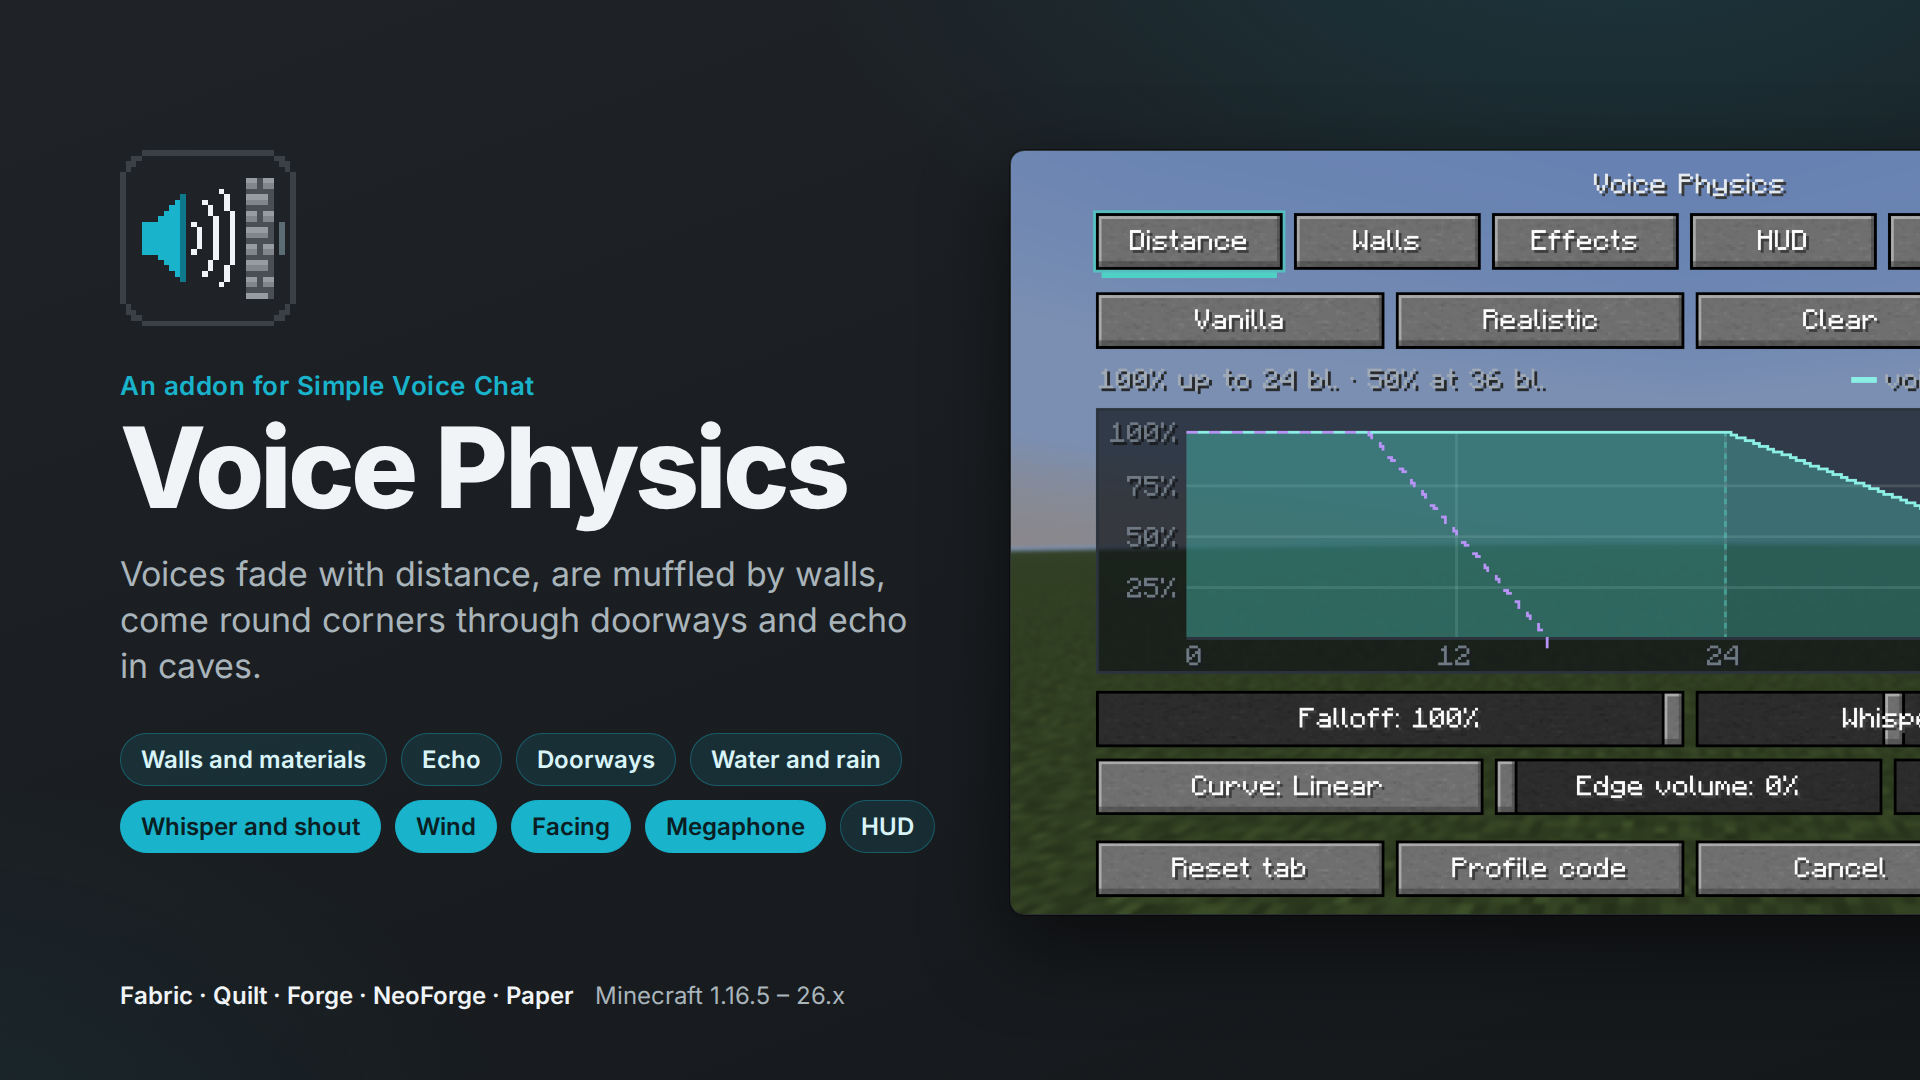
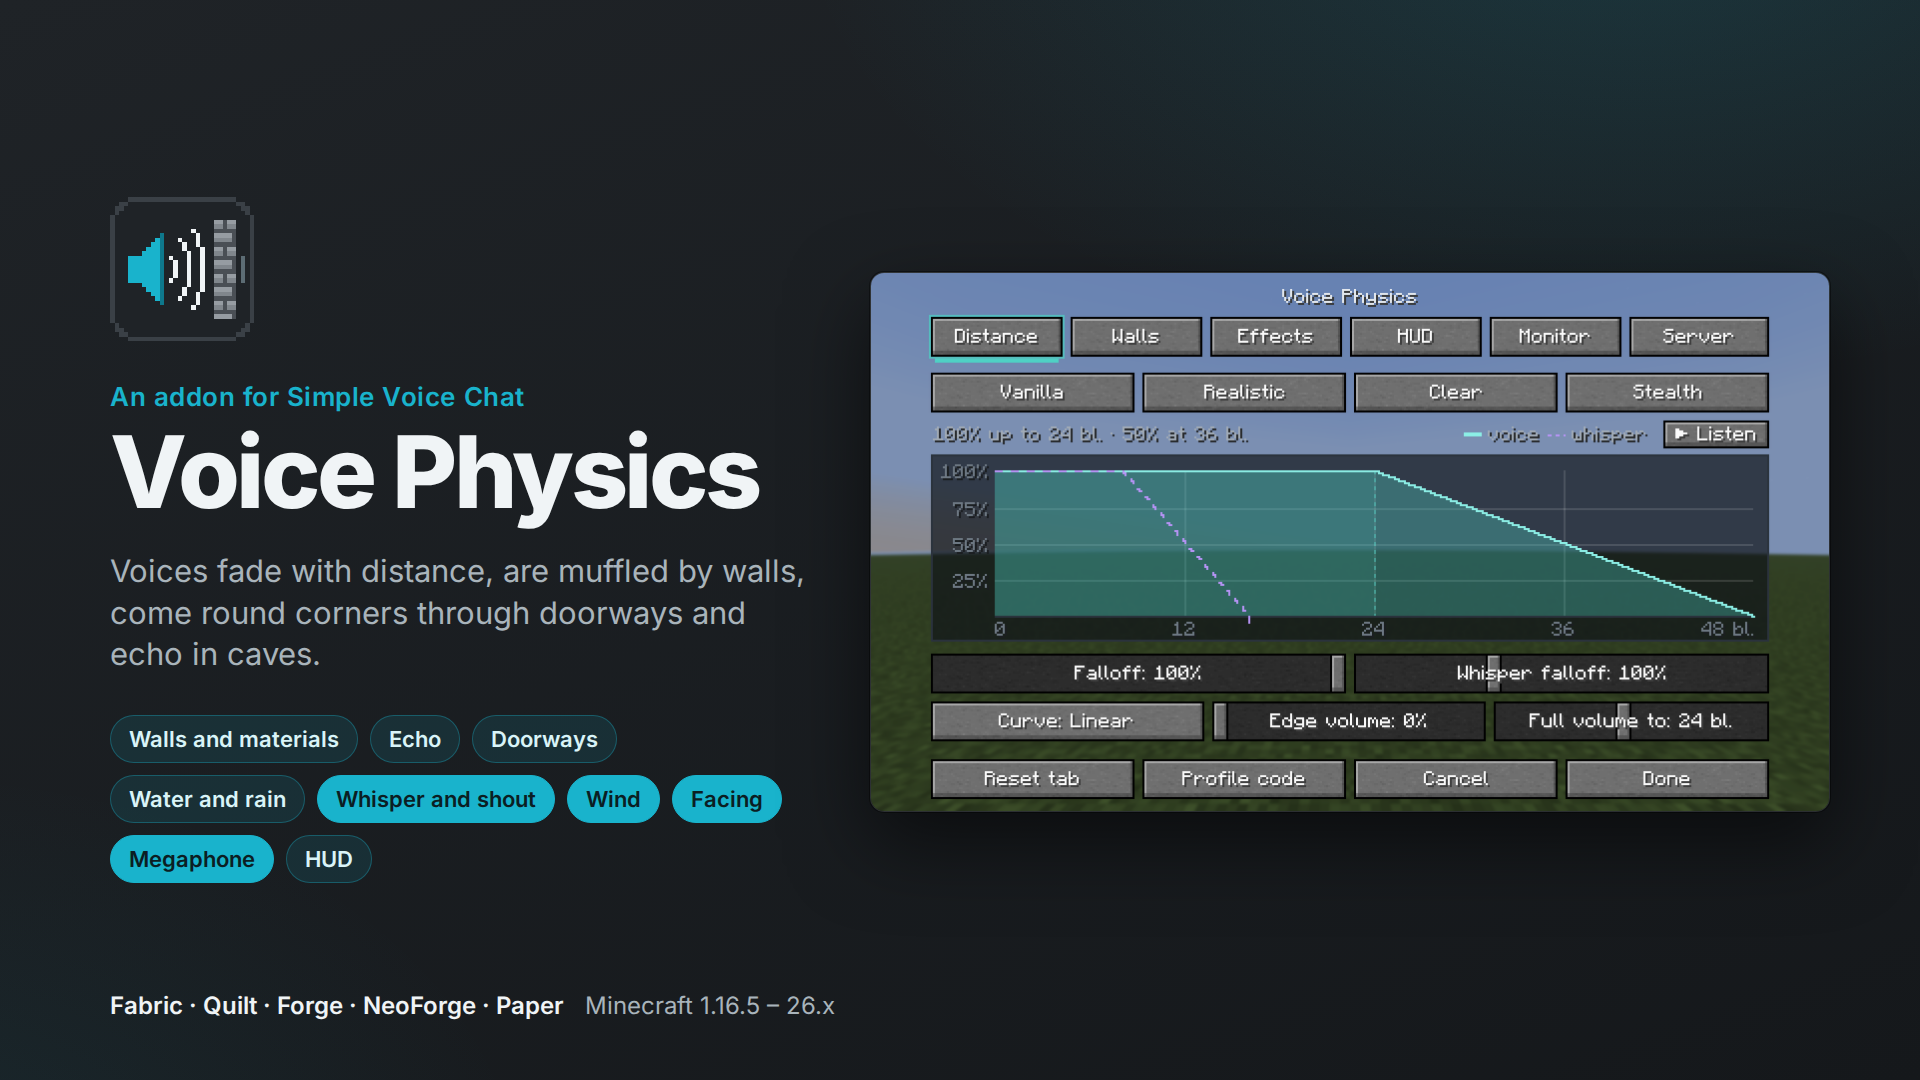
Gallery cover: the whole settings screen fits in the picture

diff --git a/docs/gallery/page.html b/docs/gallery/page.html
@@ -48,22 +48,23 @@
   .card p { font-size: 26px; color: var(--dim); margin-top: 8px; line-height: 1.3; }
   .card .shot { position: absolute; left: 200px; top: 168px; width: 1520px; height: 855px; }
 
-  /* Cover: name, line and what it does on the left, the settings screen on the right */
+  /* Cover: name, line and what it does on the left, the whole settings screen on the right */
   .cover { position: absolute; inset: 0; }
-  .cover .left { position: absolute; left: 120px; top: 150px; width: 820px; }
-  .cover img.icon { width: 176px; height: 176px; image-rendering: pixelated; }
+  .cover .left { position: absolute; left: 110px; top: 0; bottom: 0; width: 700px; display: flex; flex-direction: column; justify-content: center; }
+  .cover img.icon { width: 144px; height: 144px; image-rendering: pixelated; }
   .cover .for { margin-top: 40px; font-size: 26px; font-weight: 600; color: var(--cyan); letter-spacing: 0.02em; }
-  .cover h1 { font-size: 112px; font-weight: 800; letter-spacing: -0.035em; line-height: 1; margin-top: 10px; }
-  .cover .line { font-size: 34px; color: var(--dim); line-height: 1.35; margin-top: 28px; }
-  .cover .chips { display: flex; flex-wrap: wrap; gap: 14px; margin-top: 44px; }
+  .cover h1 { font-size: 100px; font-weight: 800; letter-spacing: -0.035em; line-height: 1; margin-top: 10px; }
+  .cover .line { font-size: 31px; color: var(--dim); line-height: 1.35; margin-top: 28px; }
+  .cover .chips { display: flex; flex-wrap: wrap; gap: 12px; margin-top: 40px; }
   .cover .chip {
-    font-size: 24px; font-weight: 600; padding: 11px 20px; border-radius: 999px;
+    font-size: 22px; font-weight: 600; padding: 10px 18px; border-radius: 999px;
     background: rgba(25, 179, 204, 0.12); border: 1px solid rgba(25, 179, 204, 0.35); color: #d9f4f8;
   }
   .cover .chip.new { background: var(--cyan); border-color: var(--cyan); color: #0b1e23; }
-  .cover .loaders { position: absolute; left: 120px; bottom: 70px; font-size: 24px; color: var(--dim); }
+  .cover .loaders { position: absolute; left: 110px; bottom: 60px; font-size: 24px; color: var(--dim); }
   .cover .loaders b { color: var(--text); font-weight: 600; }
-  .cover .shot { position: absolute; left: 1010px; top: 150px; width: 1360px; height: 765px; }
+  /* The whole screenshot stays inside the picture */
+  .cover .shot { position: absolute; left: 870px; top: 272px; width: 960px; height: 540px; }
 </style>
 </head>
 <body>
